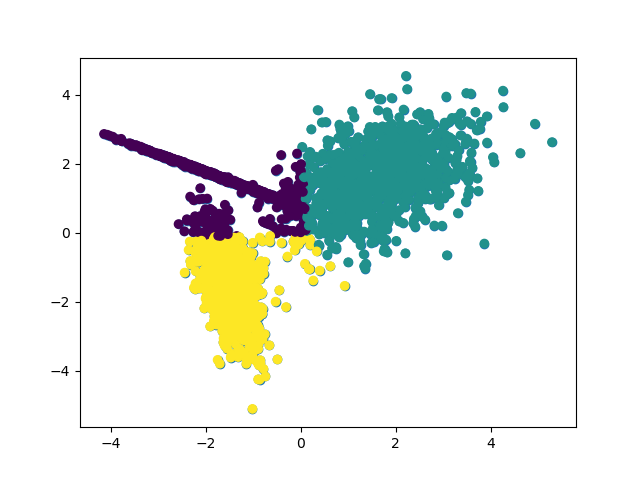
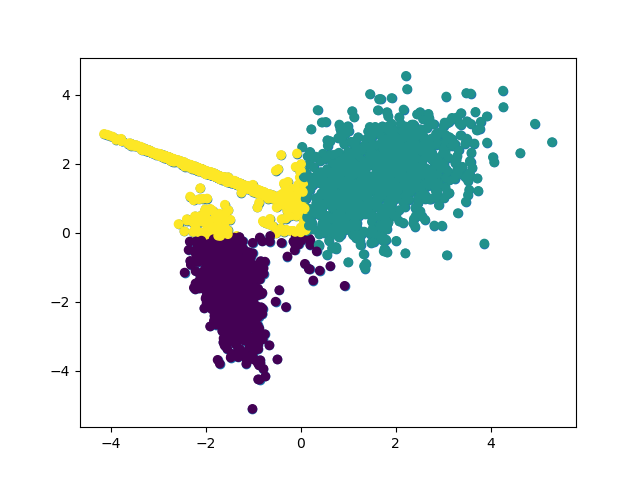
trying gaussian mixture model

Changed region(s): [[0.1562, 0.25, 0.5312, 0.8125], [0.5312, 0.5625, 0.5625, 0.625], [0.375, 0.8438, 0.4062, 0.875]]

diff --git a/run_gmm.py b/run_gmm.py
@@ -2,6 +2,7 @@ import pandas as pd
 import matplotlib.pyplot as plt 
 
 from sklearn.cluster import KMeans
+from sklearn.mixture import GaussianMixture
 
 
 dataset = pd.read_csv("dataset.csv", header = None)
@@ -14,3 +15,7 @@ plt.savefig("scatterplot.png")
 kmeans_predictions = KMeans(n_clusters=3).fit_predict(dataset)
 plt.scatter(dataset[0],dataset[1], c=kmeans_predictions)
 plt.savefig("scatterplot_kmeans_3.png")
+
+gaussian_predictions = GaussianMixture(n_components=3).fit(dataset).predict(dataset)
+plt.scatter(dataset[0], dataset[1], c=gaussian_predictions)
+plt.savefig("scatterplot_gaussian_3.png")
